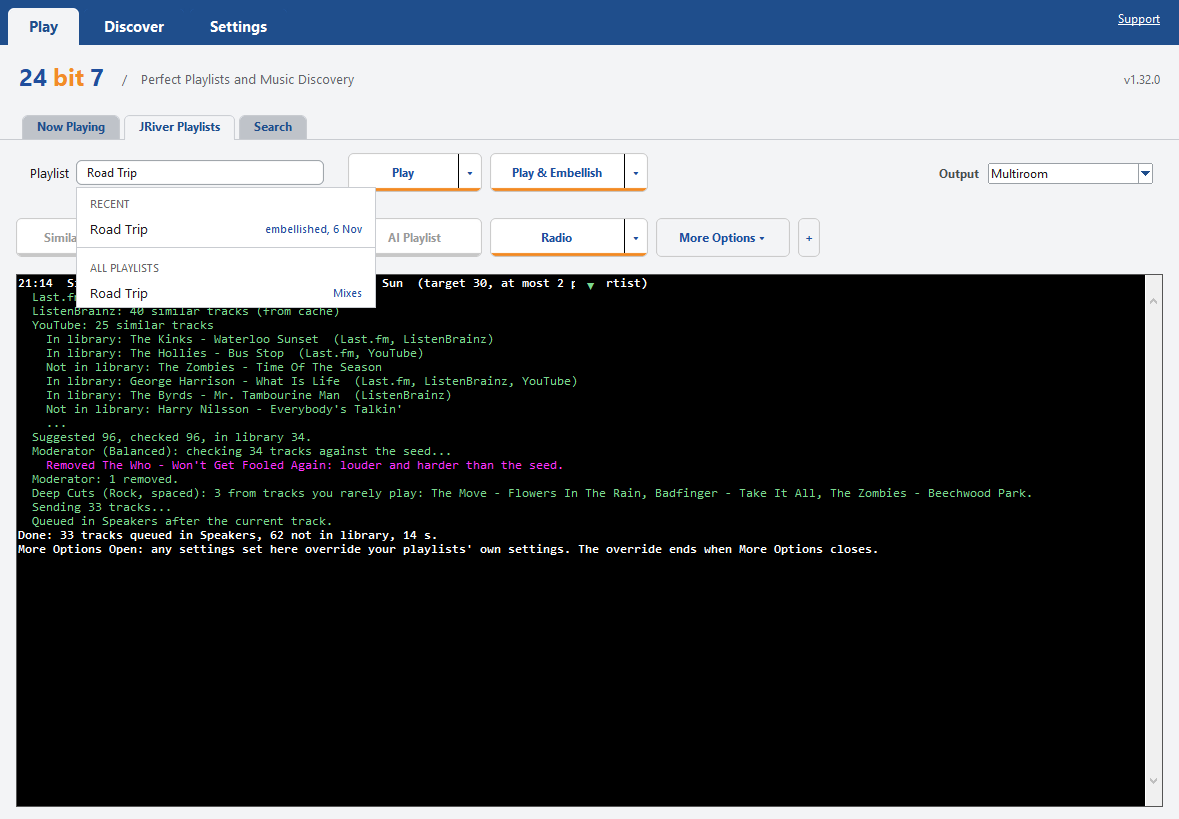
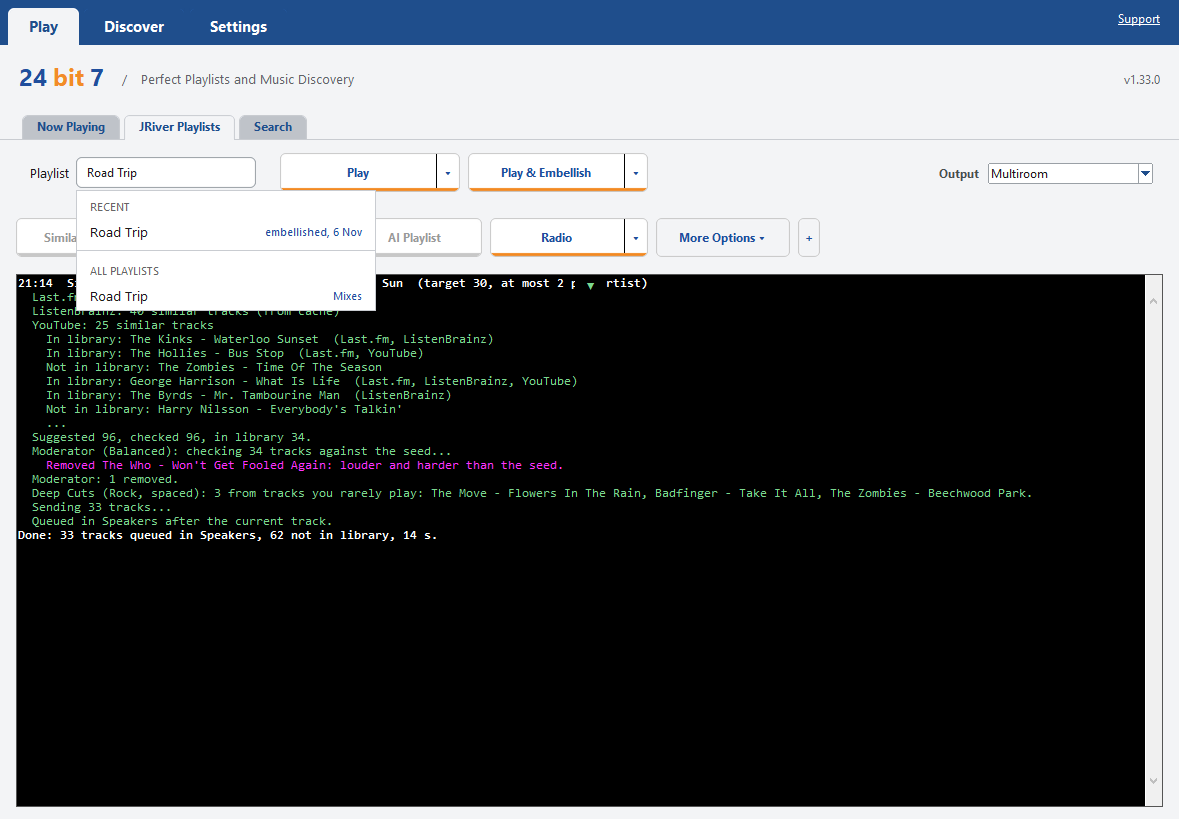
1.33.0: the Playlist box, Play and Play & Embellish in equal thirds
Three equal widths across the span they had, the box a little taller, and
both shots of the row. An older test of Embellish's order now sets the
amount's row, which is where the order lives.

diff --git a/tests/test_jriver_playlists_tab.py b/tests/test_jriver_playlists_tab.py
@@ -56,7 +56,7 @@ def test_play_and_embellish_then_save_playlist(app, ui):
     p = lists_tab(ui)
     road_trip = next(x for x in j.playlists if x["ID"] == "202")
     p._pick_playlist({"ID": "202", "Name": "Road Trip", "Folder": "Mixes", "Type": "Playlist"})
-    embellish.set_choice("order", "ordered")
+    embellish.set_row(None, shuffle="0")   # the order is the amount's own setting now, not Play's arrow (10 Nov 2026)
     p.embellish_button._command()
     ui.wait_idle()
     z = j.zone("Speakers").playlist
@@ -125,21 +125,24 @@ def lined_up_pair(p):
     return next(pair for pair in pairs if pair[1].winfo_rootx() + pair[1].winfo_width() <= limit)
 
 
-def test_play_and_embellish_line_up_with_the_last_two_playlists(app, ui):
-    """Ben, 7 Nov 2026: the two buttons sit over the row's last two playlists clear of Output, as wide, the box
-    meeting them."""
+def test_the_box_play_and_embellish_share_the_row_in_equal_thirds(app, ui):
+    """Ben, 10 Nov 2026: the Playlist box, Play and Play & Embellish are three equal widths, from the box's left
+    edge to the end of the row's last playlist clear of Output, and the box stands nearer the buttons' height.
+    Before (7 Nov) each button matched the one under it and the box was twice as wide as either."""
     p = lists_tab(ui)
     root = p.winfo_toplevel()
     for width in (1180, 1600):
         root.geometry(f"{width}x{root.winfo_height()}")
         ui.pump(0.6)
-        under_play, under_emb = lined_up_pair(p)
-        for top, under in ((p.play_list_button, under_play), (p.embellish_button, under_emb)):
-            assert abs(top.winfo_rootx() - under.winfo_rootx()) <= 1, (width, top.cget("text"), top.winfo_rootx(),
-                                                                       under.winfo_rootx())
-            assert abs(top.winfo_width() - under.winfo_width()) <= 1, (width, top.cget("text"))
-        box_right = p.playlist_entry.winfo_rootx() + p.playlist_entry.winfo_width()
-        assert abs(box_right + 24 - p.play_list_button.winfo_rootx()) <= 1, "the box stretches to meet Play"
-        assert p.embellish_button.winfo_rootx() + p.embellish_button.winfo_width() <= p.output_box.winfo_rootx(), \
-            "Output stays clear"
+        _under_play, under_emb = lined_up_pair(p)
+        box, play, emb = p.playlist_entry, p.play_list_button, p.embellish_button
+        widths = (box.winfo_width(), play.winfo_width(), emb.winfo_width())
+        assert widths[1] == widths[2] and 0 <= widths[0] - widths[1] <= 2, (width, widths)
+        assert abs(box.winfo_rootx() + widths[0] + 24 - play.winfo_rootx()) <= 1, "the usual gap after the box"
+        assert abs(play.winfo_rootx() + widths[1] + 8 - emb.winfo_rootx()) <= 1, "and between the buttons"
+        right = under_emb.winfo_rootx() + under_emb.winfo_width()
+        assert abs(emb.winfo_rootx() + widths[2] - right) <= 1, (width, "the row ends where it did")
+        assert emb.winfo_rootx() + widths[2] <= p.output_box.winfo_rootx(), "Output stays clear"
+        assert 0.75 * play.winfo_height() <= box.winfo_height() < play.winfo_height(), \
+            (box.winfo_height(), play.winfo_height())
     assert not ui.errors, ui.errors[0]

diff --git a/tabs.py b/tabs.py
@@ -1362,6 +1362,17 @@ class TCombobox(ttk.Combobox):
         self._en.set(value)
 
 
+def equal_thirds(span, first_gap, gap):
+    """
+    Three widths that share a span of pixels equally: (first, second, third), with first_gap after the first and
+    gap after the second. What doesn't divide by three goes to the first, so the three end exactly where the span
+    does. The JRiver Playlists row: the Playlist box, Play and Play & Embellish (Ben, 10 Nov 2026).
+    """
+    room = max(0, int(span) - first_gap - gap)
+    each = room // 3
+    return room - 2 * each, each, each
+
+
 class RoundedEntry(tk.Frame):
     """
     A text box with fully rounded ends, drawn like the buttons so it looks the same on any PC.
@@ -1388,7 +1399,7 @@ class RoundedEntry(tk.Frame):
         fg = PALETTE.get("field_fg") or PALETTE.get("text") or "#000000"
         edge = PALETTE.get("field_edge") or PALETTE["button_outline"]
         self._edges = (edge, PALETTE["button_fg"])
-        self._shape = lambda colour: rounded_shape(self, self._box_w, h, px(CORNER), fill, colour, px(1))   # as the buttons
+        self._shape = lambda colour: rounded_shape(self, self._box_w, self._h, px(CORNER), fill, colour, px(1))   # as the buttons
         self._back = tk.Label(self, image=self._shape(edge), bd=0, highlightthickness=0, bg=back)
         self._back.pack()
         options = {"textvariable": textvariable} if textvariable is not None else {}
@@ -1443,6 +1454,16 @@ class RoundedEntry(tk.Frame):
 
     def focus_set(self):
         self.entry.focus_set()
+
+    def set_pixel_height(self, height):
+        """Draws the box this many pixels tall, never shorter than its text needs (the JRiver Playlists tab's box
+        stands nearer the height of the buttons beside it)."""
+        height = max(int(height), self._line + 4 * self._px1)
+        if height == self._h:
+            return
+        self._h = height
+        width, self._box_w = self._box_w, 0   # so set_pixel_width redraws and re-places at the new height
+        self.set_pixel_width(width)
 
     def set_pixel_width(self, width):
         """Draws the box this many pixels wide (the JRiver Playlists tab stretches it to the buttons beside it)."""

diff --git a/tests/test_equal_thirds.py b/tests/test_equal_thirds.py
@@ -1,0 +1,19 @@
+"""
+The JRiver Playlists row in equal thirds (Ben, 10 Nov 2026): the Playlist box, Play and Play & Embellish share
+the span they had, each the same width. The arithmetic, with no window; the row itself is checked in
+tests/test_jriver_playlists_tab.py.
+"""
+
+
+def test_three_equal_widths_fill_the_span_exactly(app):
+    import tabs
+    assert tabs.equal_thirds(932, 24, 8) == (300, 300, 300)
+    for span in (700, 701, 702, 1415):
+        box, play, emb = tabs.equal_thirds(span, 24, 8)
+        assert play == emb and 0 <= box - play <= 2, (span, box, play, emb)
+        assert box + 24 + play + 8 + emb == span, "they end where the span does, to the pixel"
+
+
+def test_a_span_too_small_gives_nothing_rather_than_a_negative_width(app):
+    import tabs
+    assert tabs.equal_thirds(20, 24, 8) == (0, 0, 0)

diff --git a/release_notes/v1.33.0.md b/release_notes/v1.33.0.md
@@ -6,6 +6,7 @@ Settings > JRiver Playlists > Play & Embellish is now a table. One line, All amo
 - **No build waits in silence.** On a stopped zone Play & Embellish starts the playlist's own first track at once, Radio starts a pillar's song, and AI Playlist makes a quick first request for an opener that plays while the full list is found. The quick request is left out with Ollama, in Steer, and when music is already playing.
 - **Radio and Play & Embellish show their working.** Each pillar and agreeing artist is a line in the console, each of its top tracks In library or Not in library, and every one is listed in Discover, where their sessions used to be empty.
 - **Voice requests stay in their own room.** With Output left on Multiroom, music asked for at the Sonos's Echo played on the main system too. Now it plays in the room of the Echo that heard it: a main system that's following finishes its track and drops out, and "multiroom" by voice brings it back.
+- On the JRiver Playlists tab the Playlist box, Play and Play & Embellish are now three equal widths, and the box stands a little taller.
 - **Multiroom's running commentary** now shows in the Advanced console only. A Multiroom problem, or a note about something you can hear, shows in Simple too.
 
 **Upgrading:** unzip to a new folder and copy your .env, 24bit7.db and profiles folder across from the old one.
